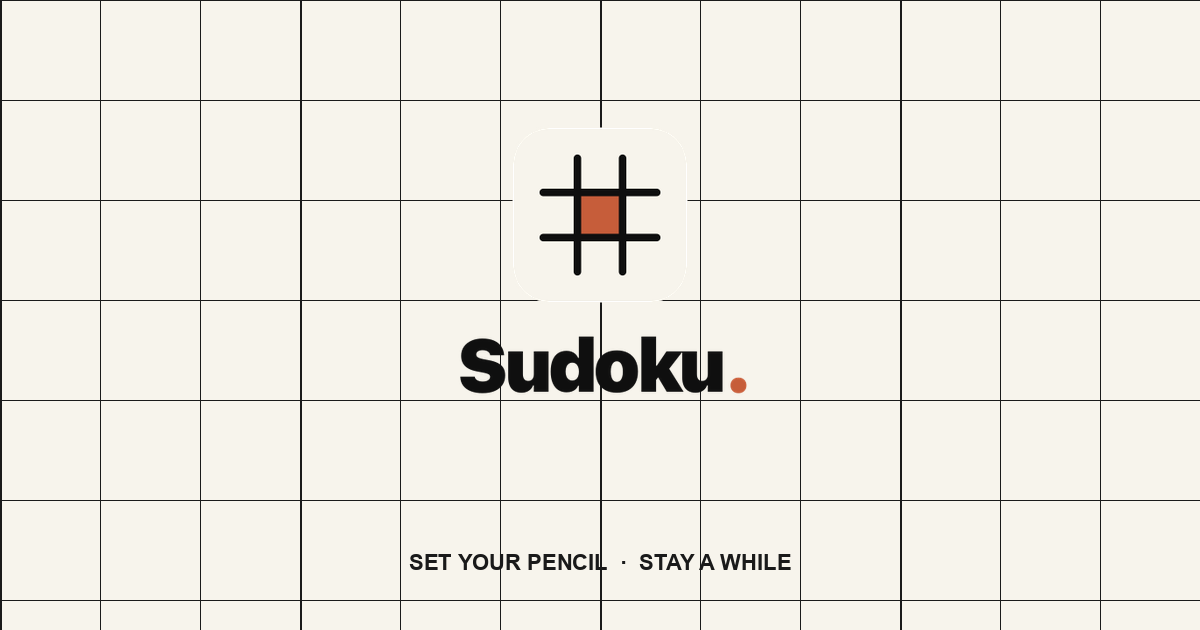
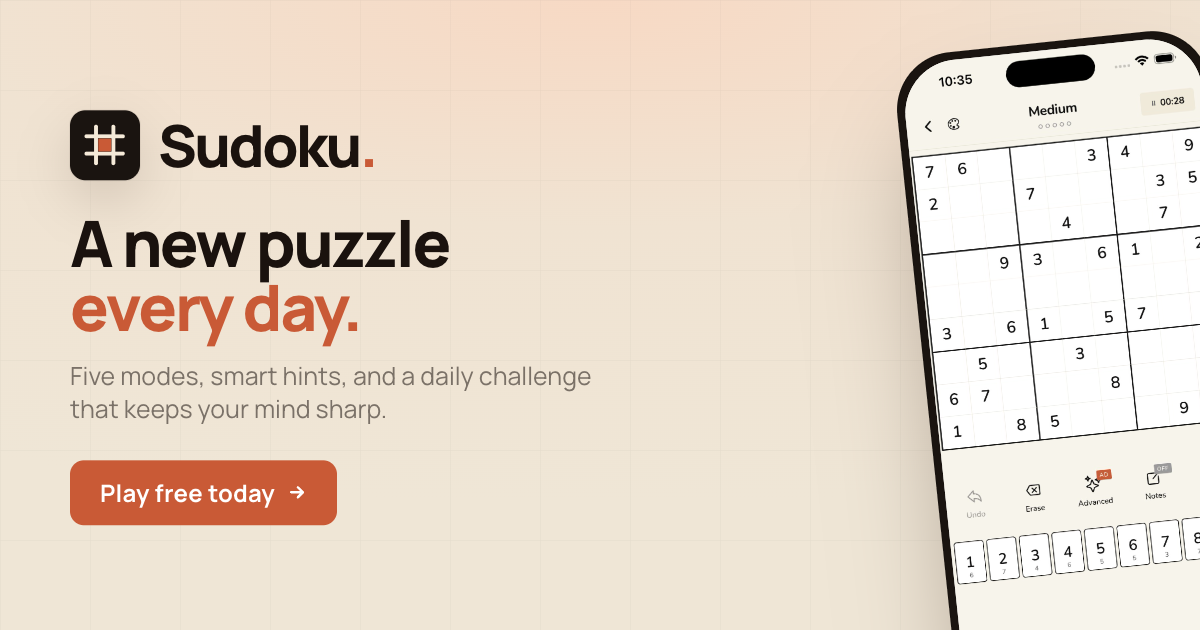
Refresh social-preview images + add square variant
Replaces the old og-image.png with the new "A new puzzle every day"
landscape (1200×630) used by X, Facebook, LinkedIn, Slack, Discord, and
iMessage when sharing the URL.

Adds og-image-square.png (1080×1080) — "Sharpen your mind, one cell at
a time" — as a secondary og:image entry so platforms that prefer 1:1
(WhatsApp, Telegram, some Apple share sheets) pick a fitted preview
instead of cropping the landscape.

Updates og:image:alt + twitter:image:alt to describe the actual visual
content of each image (was still describing the old design).

HTML changes:
  - landscape kept as primary <meta property="og:image"> (existing path)
  - new <meta property="og:image"> block for the square (1080×1080,
    correct width/height/alt/secure_url)
  - twitter:card stays summary_large_image (landscape is the right one
    for X's card render)

diff --git a/index.html b/index.html
@@ -39,12 +39,24 @@
 <meta property="og:title" content="Sudoku Nova — Pencil &amp; paper, reimagined">
 <meta property="og:description" content="A quiet, focused Sudoku for iPhone, iPad and Android. Five modes, a daily handcrafted puzzle, a built-in strategies playbook — without the noise.">
 <meta property="og:url" content="https://sudokunova.github.io/">
+<!-- Primary OG image (1200×630) — landscape preview. Used by Facebook, X,
+     LinkedIn, Slack, Discord, iMessage when the URL is shared. -->
 <meta property="og:image" content="https://sudokunova.github.io/og-image.png">
 <meta property="og:image:secure_url" content="https://sudokunova.github.io/og-image.png">
 <meta property="og:image:type" content="image/png">
 <meta property="og:image:width" content="1200">
 <meta property="og:image:height" content="630">
-<meta property="og:image:alt" content="Sudoku Nova app icon and wordmark on a sudoku grid background">
+<meta property="og:image:alt" content="Sudoku Nova — A new puzzle every day. Phone screen showing a Sudoku puzzle in progress.">
+
+<!-- Secondary OG image (1080×1080) — square preview. WhatsApp, Telegram,
+     and some platforms prefer 1:1 and will pick this over the landscape. -->
+<meta property="og:image" content="https://sudokunova.github.io/og-image-square.png">
+<meta property="og:image:secure_url" content="https://sudokunova.github.io/og-image-square.png">
+<meta property="og:image:type" content="image/png">
+<meta property="og:image:width" content="1080">
+<meta property="og:image:height" content="1080">
+<meta property="og:image:alt" content="Sudoku Nova — Sharpen your mind, one cell at a time. Phone screen showing a Sudoku puzzle in progress.">
+
 <meta property="og:locale" content="en_US">
 
 <!-- Twitter Card -->
@@ -52,7 +64,7 @@
 <meta name="twitter:title" content="Sudoku Nova — Pencil &amp; paper, reimagined">
 <meta name="twitter:description" content="A quiet, focused Sudoku for iPhone, iPad and Android. Five modes, a daily handcrafted puzzle, a built-in strategies playbook — without the noise.">
 <meta name="twitter:image" content="https://sudokunova.github.io/og-image.png">
-<meta name="twitter:image:alt" content="Sudoku Nova app icon and wordmark on a sudoku grid background">
+<meta name="twitter:image:alt" content="Sudoku Nova — A new puzzle every day. Phone screen showing a Sudoku puzzle in progress.">
 
 <!-- Structured data: MobileApplication (helps Google show app card in search) -->
 <script type="application/ld+json">